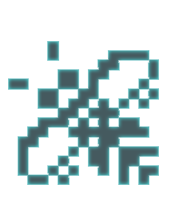
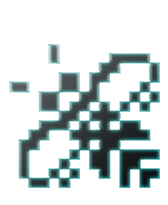
New top and bottom + trivia + latest reviews
- I've created a new Top bar and footer bar
- A new piece of trivia has been added - press refresh ;-)
- green/black latest reviews

diff --git a/Website/AtariLegend/templates/0/main.html b/Website/AtariLegend/templates/0/main.html
@@ -84,8 +84,8 @@
 					</div>		
 					<!-- end of side menu-->
 					<div id="left">
-						<img id="logo_img" src="../templates/0/images/top_logo01.png" alt="logo" />
-						<img id="logo_img_480" src="../templates/0/images/top_logo01_480.png" alt="logo_480" />
+						<img id="logo_img" src="../templates/0/images/logos/top_logo0{math equation='rand(1,5)'}.png" alt="logo" />
+						<img id="logo_img_480" src="../templates/0/images/logos/top_logo01_480.png" alt="logo_480" />
 					</div>
 					<div id="right">
 						<img src="../templates/0/images/top_bee.png" alt="bee" />
@@ -107,8 +107,9 @@
 			{block name=main_body}{/block}
 			<footer class="footer">
 				<div class="footer_logo">
+					<br><br><br>
 					<img id="footer_img" src="../templates/0/images/footer_logo.png" alt="logo">
-					<h3>&copy; copyright 2004 - 2015 </h3>
+					<h3>&copy; copyright 2004 - {'Y'|date} </h3>
 				</div>
 			</footer>
 		</div>

diff --git a/Website/AtariLegend/templates/0/css/style.css b/Website/AtariLegend/templates/0/css/style.css
@@ -51,7 +51,7 @@ footer, header, hgroup, menu, nav, section {
 	width: 100%;
 	float: left;
 	display: block;
-	background: url(../../../includes/show_image.php?file=../templates/0/images/top_bg.png) 0 0 no-repeat;
+	background: url(../../../includes/show_image.php?file=../templates/0/images/top_bg.jpg) 0 0 no-repeat;
 	height:100%;
 	}
 
@@ -1024,8 +1024,6 @@ contact tiles - front page
 ------------------------------------------------------------ */
 .footer{ width: 100%;
 		float: left;	
-		margin-top: 20px;
-		padding-top: 20px;
 		border-top: 10px solid #01b5b5;
 		background: url(../images/footer_bg.jpg) 0 0 no-repeat;
 	}
@@ -1033,6 +1031,7 @@ contact tiles - front page
 .footer_logo{ color: white;
 		font-size: 10pt;
 		text-align: center;
+		height : 120px;
 	}
 
 #footer_img {margin-left: auto;

diff --git a/Website/AtariLegend/templates/0/latest_reviews_tile.html b/Website/AtariLegend/templates/0/latest_reviews_tile.html
@@ -19,9 +19,10 @@
 {block name=latest_reviews_tile}
 <div class="standard_tile" id="latest_reviews">
 	<h1><a href="#" class="standard_tile_link">LATEST REVIEWS</a></h1>
+	{assign var="number" value=1}
 	{foreach from=$recent_reviews item=line}
 		<div class="standard_tile_line"></div>	
-		<div class="standard_list_entry">
+		<div class="standard_list_entry" {if $number is odd}style="background-color:black;"{/if}>
 			<div class="standard_list_entry_left">
 				<a href="#"><img src="../includes/show_image.php?file={$line.review_img}&resize=164,null,null,null&crop=left,top,164,120" alt="latest_review"></a>
 			</div>
@@ -32,6 +33,7 @@
 				<h5>{$line.review_text}</h5>
 			</div>							
 		</div>
+		{$number=$number+1}
 	{/foreach}
 	<div class="standard_tile_line"></div>
 </div>
